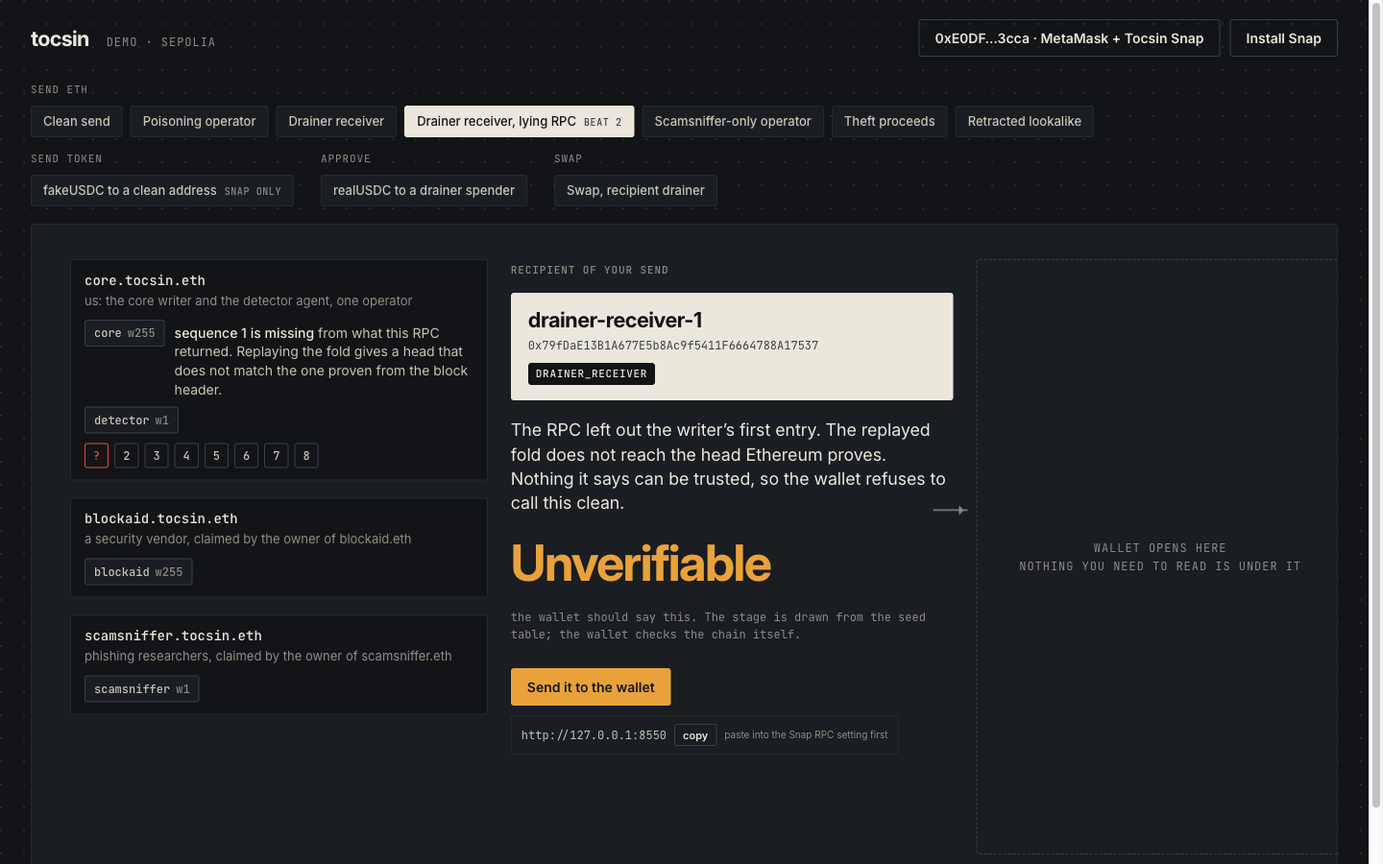
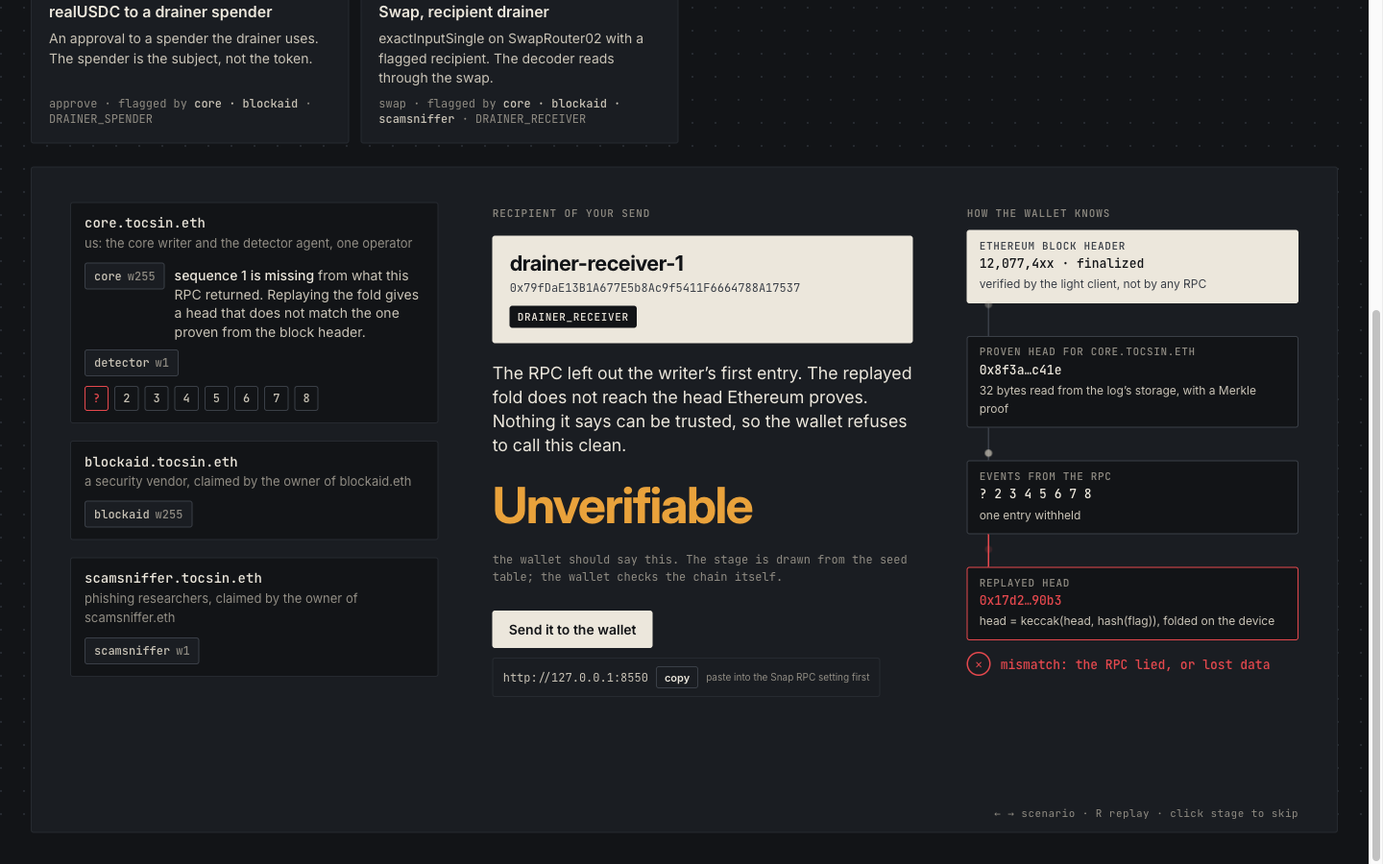
Demo page mock: scenario cards with explainers and category links, stage opens below; wallet mock removed, proof flow with travelling dots in its place, red only at the verdict; spec and stills updated

diff --git a/design/kit/demo-page.html b/design/kit/demo-page.html
@@ -15,15 +15,21 @@ body { min-height: 100vh; background:
 .top .wordmark { font-size: 22px; }
 .top .label { margin-left: 4px; }
 .top .acts { display: flex; gap: 10px; }
-.chip-row { display: flex; flex-wrap: wrap; gap: 14px 28px; padding: 6px 32px 18px; }
-.group { display: flex; flex-direction: column; gap: 8px; }
-.group .label { font-size: 11px; }
-.chips { display: flex; flex-wrap: wrap; gap: 8px; }
-.chip { font: 500 13px/1 var(--body); color: var(--paper-200); background: var(--ink-800); border: var(--hair); border-radius: var(--r); padding: 9px 12px; cursor: pointer; white-space: nowrap; transition: border-color 150ms, color 150ms; }
-.chip:hover { border-color: var(--ink-600); color: var(--paper-100); }
-.chip.on { color: var(--ink-900); background: var(--paper-100); border-color: var(--paper-100); }
-.chip .tag { font: 500 10px/1 var(--mono); letter-spacing: .06em; text-transform: uppercase; color: var(--ink-400); margin-left: 8px; }
-.chip.on .tag { color: var(--ink-600); }
+.tabs { display: flex; gap: 28px; padding: 10px 32px 0; }
+.tab { font: 500 12px/1 var(--mono); letter-spacing: .08em; text-transform: uppercase; color: var(--ink-400); background: none; border: 0; border-bottom: 1px solid var(--ink-600); padding: 0 0 8px; cursor: pointer; }
+.tab:hover { color: var(--paper-200); }
+.tab.on { color: var(--paper-100); border-bottom: 2px solid var(--paper-100); }
+.cards { display: grid; grid-template-columns: repeat(4, 1fr); gap: 12px; padding: 18px 32px 24px; }
+.card { text-align: left; background: var(--ink-800); border: var(--hair); border-radius: var(--r); padding: 16px 18px; cursor: pointer; display: flex; flex-direction: column; gap: 8px; min-height: 132px; transition: border-color 150ms, transform var(--enter) var(--ease-out); color: var(--paper-100); font-family: var(--body); }
+.card:hover { border-color: var(--ink-600); }
+.card.on { border-color: var(--paper-100); }
+.card .t { font-size: 16px; font-weight: 600; line-height: 1.25; display: flex; justify-content: space-between; gap: 10px; align-items: baseline; }
+.card .tag { font: 500 10px/1 var(--mono); letter-spacing: .06em; text-transform: uppercase; color: var(--ink-400); white-space: nowrap; }
+.card .d { font-size: 14px; line-height: 1.45; color: var(--paper-200); }
+.card .m { margin-top: auto; font: 400 12px/1.4 var(--mono); color: var(--ink-400); }
+.card .m b { color: var(--paper-200); font-weight: 500; }
+.stage.empty > * { display: none; }
+.stage.empty::after { content: 'pick a scenario above'; position: absolute; inset: 0; display: grid; place-items: center; font: 500 12px/1 var(--mono); letter-spacing: .08em; text-transform: uppercase; color: var(--ink-400); }
 
 .stage { position: relative; margin: 0 32px 32px; min-height: 620px; background: var(--ink-800); border: var(--hair); border-radius: var(--r);
   display: grid; grid-template-columns: 30% 1fr 27%; padding: 36px 40px; gap: 56px; overflow: hidden; }
@@ -80,22 +86,30 @@ body { min-height: 100vh; background:
 .copy { display: flex; gap: 8px; align-items: center; font: 400 12px/1 var(--mono); color: var(--paper-200); border: var(--hair); border-radius: var(--r); padding: 8px 10px; }
 .copy small { color: var(--ink-400); font-family: var(--body); }
 
-/* the right third: kept empty for the wallet */
-.land { position: relative; border: 1px dashed var(--ink-600); border-radius: var(--r); height: 100%; min-height: 520px; display: grid; place-items: center; opacity: 0; transition: opacity var(--state); }
-.land.on { opacity: 1; }
-.land .label { text-align: center; line-height: 1.6; }
-.land .arrow { position: absolute; left: -46px; top: 42%; width: 36px; height: 1.5px; background: var(--ink-400); }
-.land .arrow::after { content: ''; position: absolute; right: -1px; top: -4px; border: 5px solid transparent; border-left-color: var(--ink-400); }
-.land .fakewallet { position: absolute; inset: 12px; background: #24272a; border-radius: 10px; opacity: 0; transition: opacity var(--state); display: flex; flex-direction: column; padding: 14px; gap: 10px; color: #d6d9dc; font: 400 12px/1.4 system-ui, sans-serif; }
-.land .fakewallet.on { opacity: 1; }
-.fakewallet .bar { display: flex; justify-content: space-between; color: #9fa6ad; font-size: 11px; }
-.fakewallet .block { border-top: 4px solid #d73847; background: #2e2a2b; border-radius: 6px; padding: 12px; }
-.fakewallet .warnb { border-top: 4px solid #f0b90b; background: #2f2c25; border-radius: 6px; padding: 12px; }
-.fakewallet .cleanb { border-top: 4px solid #4a5056; background: #2b2e31; border-radius: 6px; padding: 12px; }
-.fakewallet h4 { margin: 0 0 4px; font-size: 14px; }
-.fakewallet .btns { margin-top: auto; display: flex; gap: 8px; }
-.fakewallet .btns span { flex: 1; text-align: center; padding: 10px; border-radius: 20px; border: 1px solid #4a5056; }
-.fakewallet .btns span.p { background: #4459ff; border-color: #4459ff; color: #fff; }
+/* the right third: the proof, drawn as a flow */
+.proof { display: flex; flex-direction: column; gap: 0; padding-top: 6px; }
+.proof .ctx { margin-bottom: 12px; }
+.node { border: var(--hair-strong); border-radius: var(--r); padding: 10px 12px; background: var(--ink-900); }
+.node .k { font: 500 11px/1 var(--mono); letter-spacing: .06em; text-transform: uppercase; color: var(--ink-400); }
+.node .v { font: 500 13px/1.4 var(--mono); color: var(--paper-100); margin-top: 4px; word-break: break-all; }
+.node .s { font-size: 12px; color: var(--paper-200); margin-top: 3px; }
+.node.hero { background: var(--paper-100); border-color: var(--paper-100); }
+.node.hero .k { color: var(--ink-600); } .node.hero .v { color: var(--ink-900); } .node.hero .s { color: var(--ink-600); }
+.node.bad { border-color: var(--alert); } .node.bad .v { color: var(--alert); }
+.link { position: relative; height: 34px; margin-left: 22px; width: 1.5px; background: var(--ink-600); }
+.link .dot { position: absolute; left: -3px; top: -4px; width: 7.5px; height: 7.5px; border-radius: 50%; background: var(--paper-200); opacity: 0; }
+.link.on .dot { animation: drop 1.4s linear infinite; }
+.link.bad { background: var(--alert); } .link.bad .dot { background: var(--alert); }
+.link.stop .dot { animation: drop-stop 1.4s var(--ease-out) infinite; }
+@keyframes drop { 0% { transform: translateY(0); opacity: 0; } 15% { opacity: 1; } 85% { opacity: 1; } 100% { transform: translateY(30px); opacity: 0; } }
+@keyframes drop-stop { 0% { transform: translateY(0); opacity: 0; } 20% { opacity: 1; } 60% { transform: translateY(16px); opacity: 1; } 100% { transform: translateY(16px); opacity: 0; } }
+.compare { display: flex; align-items: center; gap: 10px; margin-top: 12px; font: 500 13px/1.3 var(--mono); color: var(--paper-100); }
+.compare .mark { width: 22px; height: 22px; border-radius: 50%; border: 1.5px solid var(--paper-200); display: grid; place-items: center; font-size: 12px; }
+.compare.bad { color: var(--alert); } .compare.bad .mark { border-color: var(--alert); }
+/* dots on the wires */
+.stage .mote { fill: var(--paper-200); }
+.stage .mote.bad { fill: var(--alert); }
+.subject.bad { box-shadow: 0 0 0 2px var(--alert); }
 .hint { position: absolute; right: 40px; bottom: 14px; font: 400 11px/1 var(--mono); color: var(--ink-400); letter-spacing: .04em; }
 @media (prefers-reduced-motion: reduce) { .in, .says, .wire, .land { transition: none; } .ring.go { animation: none; } }
 </style>
@@ -105,13 +119,14 @@ body { min-height: 100vh; background:
   <div class="brand"><span class="wordmark">tocsin</span><span class="label">demo · sepolia</span></div>
   <div class="acts"><button class="btn" id="host">0xE0DF…3cca · MetaMask + Tocsin Snap</button><button class="btn">Install Snap</button></div>
 </header>
-<nav class="chip-row" id="chips" aria-label="scenarios"></nav>
-<main class="stage" id="stage" aria-live="polite">
+<nav class="tabs" id="tabs" aria-label="categories"></nav>
+<section class="cards" id="cards" aria-label="scenarios"></section>
+<main class="stage empty" id="stage" aria-live="polite">
   <svg class="wires" id="wires"></svg>
   <section class="col" id="lists"></section>
   <section class="col mid" id="mid"></section>
-  <section class="col"><div class="land" id="land"><span class="arrow"></span><div class="label">wallet opens here<br>nothing you need to read is under it</div><div class="fakewallet" id="fw"></div></div></section>
-  <span class="hint">← → scenario · R replay · click stage to skip · Enter send</span>
+  <section class="col proof" id="proof"></section>
+  <span class="hint">← → scenario · R replay · click stage to skip</span>
 </main>
 <script>
 // ---- data: in the real page this is utils/demo/scenarios.ts plus a LISTS constant, pinned to the tsv by a test
@@ -123,20 +138,20 @@ const LISTS = [
 ];
 const WARN_ONLY = new Set(['THEFT_PROCEEDS']);
 const S = [
-  { id: 'clean', group: 'Send ETH', title: 'Clean send', ctx: 'recipient', subject: { label: 'demo account', addr: '0xE0DFbd2B761929D02b30f2173C3386f0ec4B3cca' }, cat: null, flags: [] },
-  { id: 'op', group: 'Send ETH', title: 'Poisoning operator', ctx: 'recipient', subject: { label: 'poisoning-operator-1', addr: '0x5126633bCFdb9E4A2FE7AB445394AE0a217f9120' }, cat: 'POISONING_OPERATOR',
+  { id: 'clean', desc: "A normal transfer to an address nobody has flagged. The wallet lets it through.", group: 'Send ETH', title: 'Clean send', ctx: 'recipient', subject: { label: 'demo account', addr: '0xE0DFbd2B761929D02b30f2173C3386f0ec4B3cca' }, cat: null, flags: [] },
+  { id: 'op', desc: "Sends dust from a lookalike address so you copy it later. Two lists each have one writer on it.", group: 'Send ETH', title: 'Poisoning operator', ctx: 'recipient', subject: { label: 'poisoning-operator-1', addr: '0x5126633bCFdb9E4A2FE7AB445394AE0a217f9120' }, cat: 'POISONING_OPERATOR',
     flags: [ { writer: 'detector', ev: '0x3725c75c…5af9dce' }, { writer: 'lantern', ev: '0xa84cc88a…0becb16' } ] },
-  { id: 'drainer', group: 'Send ETH', title: 'Drainer receiver', ctx: 'recipient', subject: { label: 'drainer-receiver-1', addr: '0x79fDaE13B1A677E5b8Ac9f5411F6664788A17537' }, cat: 'DRAINER_RECEIVER',
+  { id: 'drainer', desc: "The address a drainer kit sweeps victims’ funds into. Three lists name it, two at full weight.", group: 'Send ETH', title: 'Drainer receiver', ctx: 'recipient', subject: { label: 'drainer-receiver-1', addr: '0x79fDaE13B1A677E5b8Ac9f5411F6664788A17537' }, cat: 'DRAINER_RECEIVER',
     flags: [ { writer: 'manual', ev: '0x0b1c…a91f' }, { writer: 'harbor', ev: '0x3725c75c…5af9dce' }, { writer: 'lantern', ev: '0xa84cc88a…0becb16' } ] },
-  { id: 'poison', group: 'Send ETH', title: 'Drainer receiver, lying RPC', tag: 'beat 2', ctx: 'recipient', poison: true, subject: { label: 'drainer-receiver-1', addr: '0x79fDaE13B1A677E5b8Ac9f5411F6664788A17537' }, cat: 'DRAINER_RECEIVER',
+  { id: 'poison', desc: "Same send, but the Snap reads through an RPC that hides a flag. Watch the fold not add up.", group: 'Send ETH', title: 'Drainer receiver, lying RPC', tag: 'beat 2', ctx: 'recipient', poison: true, subject: { label: 'drainer-receiver-1', addr: '0x79fDaE13B1A677E5b8Ac9f5411F6664788A17537' }, cat: 'DRAINER_RECEIVER',
     flags: [ { writer: 'manual', ev: '0x0b1c…a91f' }, { writer: 'harbor', ev: '0x3725c75c…5af9dce' }, { writer: 'lantern', ev: '0xa84cc88a…0becb16' } ] },
-  { id: 'lantern', group: 'Send ETH', title: 'Scamsniffer-only operator', ctx: 'recipient', subject: { label: 'sniffer-poisoning-operator-1', addr: '0xd59557f9a8f3574f58FDc8ea63E4f9B1F7486B22' }, cat: 'POISONING_OPERATOR',
+  { id: 'lantern', desc: "Flagged by one list at weight 1. Warns by default; blocks when the policy is one writer.", group: 'Send ETH', title: 'Scamsniffer-only operator', ctx: 'recipient', subject: { label: 'sniffer-poisoning-operator-1', addr: '0xd59557f9a8f3574f58FDc8ea63E4f9B1F7486B22' }, cat: 'POISONING_OPERATOR',
     flags: [ { writer: 'lantern', ev: '0xa84cc88a…0becb16' } ], after: 'Set the Snap policy to 1 writer and this blocks.' },
-  { id: 'theft', group: 'Send ETH', title: 'Theft proceeds', ctx: 'recipient', subject: { label: 'theft-proceeds-1', addr: '0x8e1a…c0de' }, cat: 'THEFT_PROCEEDS', flags: [ { writer: 'manual', ev: '0x0b1c…a91f' } ] },
-  { id: 'retracted', group: 'Send ETH', title: 'Retracted lookalike', ctx: 'recipient', subject: { label: 'paid-lookalike-retracted', addr: '0x44aa…9e2b' }, cat: 'PAID_LOOKALIKE', flags: [ { writer: 'manual', ev: '0x0b1c…a91f', tomb: true } ] },
-  { id: 'token', group: 'Send token', title: 'fakeUSDC to a clean address', tag: 'snap only', ctx: 'token', subject: { label: 'fakeUSDC, the contract itself', addr: '0x2Ba2B2F4bd18D04C3bA92DB9F73a49d19c87b4B8' }, cat: 'FAKE_TOKEN', flags: [ { writer: 'manual', ev: '0x0b1c…a91f' } ] },
-  { id: 'approve', group: 'Approve', title: 'realUSDC to a drainer spender', ctx: 'spender', subject: { label: 'drainer-spender-1', addr: '0x7d77cf49d8c1851781C3cEfCdD9Bd9871366782e' }, cat: 'DRAINER_SPENDER', flags: [ { writer: 'manual', ev: '0x0b1c…a91f' }, { writer: 'harbor', ev: '0x3725c75c…5af9dce' } ] },
-  { id: 'swap', group: 'Swap', title: 'Swap, recipient drainer', ctx: 'recipient', via: { label: 'SwapRouter02', addr: '0x3bFA4769FB09eefC5a80d6E87c3B9C650f7Ae48E' }, subject: { label: 'drainer-receiver-1', addr: '0x79fDaE13B1A677E5b8Ac9f5411F6664788A17537' }, cat: 'DRAINER_RECEIVER',
+  { id: 'theft', desc: "Where stolen funds went. Flagged at full weight, but the category warns and never blocks a send.", group: 'Send ETH', title: 'Theft proceeds', ctx: 'recipient', subject: { label: 'theft-proceeds-1', addr: '0x8e1a…c0de' }, cat: 'THEFT_PROCEEDS', flags: [ { writer: 'manual', ev: '0x0b1c…a91f' } ] },
+  { id: 'retracted', desc: "A lookalike the core writer flagged, then retracted with a tombstone. Both entries stay in the log.", group: 'Send ETH', title: 'Retracted lookalike', ctx: 'recipient', subject: { label: 'paid-lookalike-retracted', addr: '0x44aa…9e2b' }, cat: 'PAID_LOOKALIKE', flags: [ { writer: 'manual', ev: '0x0b1c…a91f', tomb: true } ] },
+  { id: 'token', desc: "The token contract itself is flagged, not the recipient. Only the Snap checks the token target today.", group: 'Send token', title: 'fakeUSDC to a clean address', tag: 'snap only', ctx: 'token', subject: { label: 'fakeUSDC, the contract itself', addr: '0x2Ba2B2F4bd18D04C3bA92DB9F73a49d19c87b4B8' }, cat: 'FAKE_TOKEN', flags: [ { writer: 'manual', ev: '0x0b1c…a91f' } ] },
+  { id: 'approve', desc: "An approval to a spender the drainer uses. The spender is the subject, not the token.", group: 'Approve', title: 'realUSDC to a drainer spender', ctx: 'spender', subject: { label: 'drainer-spender-1', addr: '0x7d77cf49d8c1851781C3cEfCdD9Bd9871366782e' }, cat: 'DRAINER_SPENDER', flags: [ { writer: 'manual', ev: '0x0b1c…a91f' }, { writer: 'harbor', ev: '0x3725c75c…5af9dce' } ] },
+  { id: 'swap', desc: "exactInputSingle on SwapRouter02 with a flagged recipient. The decoder reads through the swap.", group: 'Swap', title: 'Swap, recipient drainer', ctx: 'recipient', via: { label: 'SwapRouter02', addr: '0x3bFA4769FB09eefC5a80d6E87c3B9C650f7Ae48E' }, subject: { label: 'drainer-receiver-1', addr: '0x79fDaE13B1A677E5b8Ac9f5411F6664788A17537' }, cat: 'DRAINER_RECEIVER',
     flags: [ { writer: 'manual', ev: '0x0b1c…a91f' }, { writer: 'harbor', ev: '0x3725c75c…5af9dce' }, { writer: 'lantern', ev: '0xa84cc88a…0becb16' } ] },
 ];
 const CTX = { recipient: 'recipient of your send', spender: 'spender of your allowance', token: 'the token contract you are calling' };
@@ -173,26 +188,40 @@ const sched = (fn, t) => timers.push(setTimeout(fn, t));
 const stop = () => { timers.forEach(clearTimeout); timers = []; };
 function el(tag, cls, html) { const e = document.createElement(tag); if (cls) e.className = cls; if (html != null) e.innerHTML = html; return e; }
 
-function chips() {
-  const groups = [...new Set(S.map(s => s.group))];
-  for (const g of groups) {
-    const box = el('div', 'group'); box.append(el('span', 'label', g)); const row = el('div', 'chips');
-    S.forEach((s, i) => { if (s.group !== g) return; const c = el('button', 'chip', s.title + (s.tag ? `<span class="tag">${s.tag}</span>` : '')); c.dataset.i = i; c.onclick = () => play(i); row.append(c); });
-    box.append(row); $('chips').append(box);
-  }
+let tab = 'All';
+function whoFlags(sc) {
+  const names = [...new Set(sc.flags.filter(f => !f.tomb).map(f => LISTS.find(L => L.writers.some(w => w.id === f.writer)).name.split('.')[0]))];
+  if (sc.flags.length && !names.length) return 'flagged, then <b>retracted</b>';
+  return names.length ? `flagged by <b>${names.join(' · ')}</b>` : 'no flags';
+}
+function cards() {
+  $('tabs').innerHTML = ''; $('cards').innerHTML = '';
+  for (const g of ['All', ...new Set(S.map(s => s.group))]) { const t = el('button', 'tab' + (g === tab ? ' on' : ''), g); t.onclick = () => { tab = g; cards(); }; $('tabs').append(t); }
+  S.forEach((sc, i) => {
+    if (tab !== 'All' && sc.group !== tab) return;
+    const c = el('button', 'card' + (i === cur && !$('stage').classList.contains('empty') ? ' on' : ''),
+      `<div class="t"><span>${sc.title}</span>${sc.tag ? `<span class="tag">${sc.tag}</span>` : ''}</div><div class="d">${sc.desc}</div><div class="m">${sc.group.toLowerCase()} · ${whoFlags(sc)}${sc.cat ? ' · ' + sc.cat : ''}</div>`);
+    c.dataset.i = i; c.onclick = () => play(i); $('cards').append(c);
+  });
 }
 function wire(fromEl, toEl, cls) {
   const st = $('stage').getBoundingClientRect(), a = fromEl.getBoundingClientRect(), b = toEl.getBoundingClientRect(), card = fromEl.closest('.list').getBoundingClientRect();
   const x1 = card.right - st.left, y1 = a.top + a.height / 2 - st.top, x2 = b.left - st.left, y2 = b.top + b.height / 2 - st.top, c = Math.max(28, (x2 - x1) / 2);
   const p = document.createElementNS('http://www.w3.org/2000/svg', 'path');
   p.setAttribute('d', `M${x1},${y1} C${x1 + c},${y1} ${x2 - c},${y2} ${x2},${y2}`); p.setAttribute('class', 'wire ' + (cls || ''));
-  $('wires').append(p); requestAnimationFrame(() => requestAnimationFrame(() => p.classList.add('drawn'))); return p;
+  const id = 'w' + $('wires').childElementCount; p.id = id; $('wires').append(p);
+  const mote = document.createElementNS('http://www.w3.org/2000/svg', 'circle'); mote.setAttribute('r', '3.5'); mote.setAttribute('class', 'mote');
+  const am = document.createElementNS('http://www.w3.org/2000/svg', 'animateMotion'); am.setAttribute('dur', '1.6s'); am.setAttribute('repeatCount', 'indefinite'); am.setAttribute('begin', '0.45s');
+  const mp = document.createElementNS('http://www.w3.org/2000/svg', 'mpath'); mp.setAttribute('href', '#' + id); am.append(mp); mote.append(am); $('wires').append(mote);
+  requestAnimationFrame(() => requestAnimationFrame(() => p.classList.add('drawn'))); return p;
 }
 
 function play(i) {
   stop(); final = false; cur = i; const sc = S[i], ex = explain(sc);
-  document.querySelectorAll('.chip').forEach(c => c.classList.toggle('on', +c.dataset.i === i));
-  $('wires').innerHTML = ''; $('lists').innerHTML = ''; $('mid').innerHTML = ''; $('land').classList.remove('on'); $('fw').classList.remove('on');
+  $('stage').classList.remove('empty');
+  document.querySelectorAll('.card').forEach(c => c.classList.toggle('on', +c.dataset.i === i));
+  $('stage').scrollIntoView({ behavior: 'smooth', block: 'start' });
+  $('wires').innerHTML = ''; $('lists').innerHTML = ''; $('mid').innerHTML = ''; $('proof').innerHTML = '';
   let t = 0;
   // 1. the subject
   const ctx = el('div', 'ctx in', CTX[sc.ctx]); $('mid').append(ctx);
@@ -206,6 +235,21 @@ function play(i) {
     L.writers.forEach(w => { const row = el('div', 'writer'); const pill = el('span', 'pill', `${w.label}<span class="w">w${w.w}</span>`); const says = el('div', 'says'); row.append(pill, says); ws.append(row); nodes[w.id] = { pill, says }; });
     card.append(ws); $('lists').append(card); sched(() => card.classList.add('on'), t + 380 + k * 120);
   });
+  // 2b. the proof: the wallet proves the head from a block header, then folds the events it was given
+  const head = '0x8f3a…c41e', bad = '0x17d2…90b3';
+  const P = [
+    el('div', 'ctx in', 'how the wallet knows'),
+    el('div', 'node hero in', `<div class="k">Ethereum block header</div><div class="v">12,077,4xx · finalized</div><div class="s">verified by the light client, not by any RPC</div>`),
+    el('div', 'link', '<span class="dot"></span>'),
+    el('div', 'node in', `<div class="k">proven head for core.tocsin.eth</div><div class="v">${head}</div><div class="s">32 bytes read from the log’s storage, with a Merkle proof</div>`),
+    el('div', 'link', '<span class="dot"></span>'),
+    el('div', 'node in', `<div class="k">events from the RPC</div><div class="v">${sc.poison ? '? 2 3 4 5 6 7 8' : '1 2 3 4 5 6 7 8'}</div><div class="s">${sc.poison ? 'one entry withheld' : 'downloaded from anyone, trusted by nobody'}</div>`),
+    el('div', 'link', '<span class="dot"></span>'),
+    el('div', 'node in' + (sc.poison ? ' bad' : ''), `<div class="k">replayed head</div><div class="v">${sc.poison ? bad : head}</div><div class="s">head = keccak(head, hash(flag)), folded on the device</div>`),
+    el('div', 'compare in' + (sc.poison ? ' bad' : ''), `<span class="mark">${sc.poison ? '✕' : '='}</span><span>${sc.poison ? 'mismatch: the RPC lied, or lost data' : 'match: every flag is real, none is missing'}</span>`),
+  ];
+  P.forEach(n => $('proof').append(n));
+  P.forEach((n, k) => sched(() => { n.classList.add('on'); if (n.classList.contains('link') && sc.poison && k === 6) n.classList.add('stop', 'bad'); }, t + 300 + k * 110));
   t += 900;
   // 3a. the lying RPC: the fold breaks before any flag is read
   if (sc.poison) {
@@ -234,7 +278,7 @@ function play(i) {
   const rule = el('div', 'rule in', ex.rule); sched(() => { $('mid').append(rule); requestAnimationFrame(() => rule.classList.add('on')); }, t); t += 650;
   // 5. the verdict, one ripple
   const word = { clean: 'Clean', warn: 'Warn', block: 'Blocked', unverifiable: 'Unverifiable' }[ex.verdict];
-  const v = el('div', `verdict in ${ex.verdict}`, `${word}<span class="ring"></span>`); sched(() => { $('mid').append(v); requestAnimationFrame(() => { v.classList.add('on'); if (ex.verdict !== 'clean') v.querySelector('.ring').classList.add('go'); }); }, t); t += 500;
+  const v = el('div', `verdict in ${ex.verdict}`, `${word}<span class="ring"></span>`); sched(() => { $('mid').append(v); requestAnimationFrame(() => { v.classList.add('on'); if (ex.verdict !== 'clean') v.querySelector('.ring').classList.add('go'); if (ex.verdict === 'block') { sub.classList.add('bad'); document.querySelectorAll('.mote').forEach(m => m.classList.add('bad')); } }); }, t); t += 500;
   // 6. handoff
   sched(() => finish(sc, ex), t);
 }
@@ -249,27 +293,18 @@ function finish(sc, ex) {
     if (sc.tag === 'snap only') acts.append(el('span', 'copy', `<small>Snap only until Kohaku lands token checks</small>`));
     mid.append(foot, acts); requestAnimationFrame(() => { foot.classList.add('on'); acts.classList.add('on'); });
   }
-  $('land').classList.add('on');
 }
-function sendIt() {
-  const ex = explain(S[cur]), fw = $('fw');
-  const body = { block: `<div class="block"><h4>Blocked by Tocsin</h4>${S[cur].subject.label} is flagged as ${S[cur].cat} by ${ex.perList.filter(p => p.live.length).map(p => p.L.name).join(', ')}. The chain proves each flag is the writer’s own entry.</div>`,
-    warn: `<div class="warnb"><h4>Tocsin warns</h4>${S[cur].subject.label} is flagged as ${S[cur].cat} by one writer at weight 1.</div>`,
-    clean: `<div class="cleanb"><h4>Tocsin</h4>No list you follow flags this address. Head verified at block 12,077,4xx.</div>`,
-    unverifiable: `<div class="warnb"><h4>Unverifiable</h4>Chain mismatch at sequence 1. The RPC’s data does not match the head Ethereum proves. Never clean.</div>` }[ex.verdict];
-  fw.innerHTML = `<div class="bar"><span>MetaMask</span><span>Sepolia</span></div><div style="font-size:13px">Send 0.00001 ETH to <span style="font-family:var(--mono)">${S[cur].subject.addr.slice(0, 10)}…</span></div>${body}<div class="btns"><span>Reject</span><span class="p">Confirm</span></div>`;
-  fw.classList.add('on');
-}
-function skip() { if (final) return; stop(); document.querySelectorAll('#stage .in, #stage .says').forEach(e => e.classList.add('on')); document.querySelectorAll('.wire').forEach(w => w.classList.add('drawn')); const sc = S[cur]; finish(sc, explain(sc)); }
+function sendIt() { const b = document.querySelector('.actions .btn'); b.textContent = 'sent: the wallet is answering'; b.disabled = true; }
+function skip() { if (final) return; stop(); document.querySelectorAll('#stage .in, #stage .says').forEach(e => e.classList.add('on')); document.querySelectorAll('.wire').forEach(w => w.classList.add('drawn')); document.querySelectorAll('.link').forEach(l => l.classList.add('on')); const sc = S[cur], ex = explain(sc); if (ex.verdict === 'block') { document.querySelector('#mid .subject:last-of-type')?.classList.add('bad'); document.querySelectorAll('.mote').forEach(m => m.classList.add('bad')); } finish(sc, ex); }
 $('stage').addEventListener('click', e => { if (e.target.closest('button, a')) return; skip(); });
 document.addEventListener('keydown', e => {
   if (e.key === 'ArrowRight') play(Math.min(S.length - 1, cur + 1));
   if (e.key === 'ArrowLeft') play(Math.max(0, cur - 1));
   if (e.key.toLowerCase() === 'r') play(cur);
-  if (e.key === 'Enter') { if (!final) skip(); else sendIt(); }
+  if (e.key === 'Enter') { if (!final) skip(); }
   if (e.key.toLowerCase() === 'p') document.body.classList.toggle('present');
 });
-chips(); play(2);
+cards();
 </script>
 </body>
 </html>

diff --git a/docs/plan/demo-page/explainer-spec.md b/docs/plan/demo-page/explainer-spec.md
@@ -2,7 +2,7 @@
 
 Status: ready-for-agent. Written 6 Nov 2026 on main, revised the same evening after an adversarial pass. Builds on `docs/plan/demo-page/spec.md` (feat/demo), which stays the source for the scenario table, the swap decoder, the pool and the seeding. This spec changes what the page looks like and adds one job: before the wallet speaks, the page shows why it is about to say what it says.
 
-Mock: `design/kit/demo-page.html`, served from the repo root (`python3 -m http.server 8732`, then `/design/kit/demo-page.html`). Stills in `design/screens/demo-page-final.png`, `demo-page-warn.png`, `demo-page-poison.png`. The mock is the layout and the motion; its data is hand-typed and the real page takes it from the constants.
+Mock: `design/kit/demo-page.html`, served from the repo root (`python3 -m http.server 8732`, then `/design/kit/demo-page.html`). Stills in `design/screens/demo-page-cards.png` (the grid), `demo-page-final.png` (a block), `demo-page-warn.png`, `demo-page-poison.png`. The mock is the layout and the motion; its data is hand-typed and the real page takes it from the constants.
 
 ## Problem
 
@@ -10,9 +10,9 @@ The board on feat/demo works but it is a table of buttons with DaisyUI badges. O
 
 ## Solution
 
-One stage. No tabs, no side rail, no prediction card. A strip of scenario chips across the top, grouped by what the transaction does. Below it the explainer fills the width: the lists the wallet follows on the left, each with its writers; the subject in the middle; the right third empty on purpose, because that is where the MetaMask popup lands. When a chip is pressed the stage plays, under five seconds: the subject lands, the lists rise, every writer that flagged it draws a line to the subject and says what it flagged, a counter collapses writers that share an operator, the rule sentence explains the outcome, the verdict word lands, one ripple, and the Send button appears inside the stage. The presenter clicks Send, the wallet opens over the empty third and says the same thing.
+A grid of scenario cards, then the stage below it. Each card is a small explainer on its own: a title, one sentence about what the address is, and a mono line saying which of our lists flag it and the category. Category links above the grid (All, Send ETH, Send token, Approve, Swap) filter the cards; they are plain underlined labels, not tab chrome, and All is the default because ten cards fit in three rows. Clicking a card selects it and the page scrolls so the stage fills the viewport. The stage plays under five seconds: the subject lands, the lists rise on the left, every writer that flagged it draws a wire to the subject with a dot travelling along it and says what it flagged, the proof flow on the right shows how the wallet knows (header, proven head, events, replayed head, compare), a counter collapses writers that share an operator, the rule sentence explains the outcome, the verdict word lands with one ripple, and the Send button appears. The presenter clicks Send and the wallet, which is not mocked anywhere on the page, opens and says the same thing.
 
-Why not tabs or a rail. The audience never needs the menu, so it should not take width from the story. A prediction card that prints "Blocked" before the explainer has run spoils the beat. Three columns at 1440 leave the stage too narrow for projector-size type. One stage, chips on top, was the right call.
+Why cards and not a chip strip or a rail. A chip is a label; a card has room to say what the thing is before the stage has to. The audience reads the card while the presenter talks, then watches the stage prove it. Why no wallet mock: the real popup is the proof and anything that imitates it on the page would weaken that. The stage ends on the verdict and the Send button, nothing else.
 
 The page still checks nothing. Every fact on the stage comes from the scenario constants, which the existing test pins to the demo address table. The stage is the presenter's prediction, drawn. The wallet is the proof.
 
@@ -38,9 +38,11 @@ Data dependency, the one thing not on chain yet: the blockaid and scamsniffer ke
 4. For each writer that flagged the subject, a hairline draws from the list's edge to the subject, 400 ms. A weight-255 writer's line is heavier. Next to the writer pill a line of text appears: "blockaid.tocsin.eth flagged it: DRAINER_RECEIVER, weight 255. evidence 0x3725…9dce", the evidence a link to the transaction. One writer every 480 ms.
 5. The counter under the subject: "independent writers: 3 · lists that flag it: 3 of 3". When the core writer and the detector both flagged, the counter says they share one operator and count once.
 6. The rule sentence, one of a fixed set (below).
-7. The verdict word: Clean in paper, Warn in paper with an amber underline, Blocked in alert red, Unverifiable in amber. One ripple runs out from the word. Red appears nowhere else on the page.
-8. The handoff: the caption "the wallet should say this. The stage is drawn from the seed table; the wallet checks the chain itself", the Send button, and the empty right third gets a dashed outline labelled "wallet opens here, nothing you need to read is under it" with a thin arrow pointing into it.
-9. Presenter clicks Send. The wallet opens top right, over the outline, and agrees.
+7. The verdict word: Clean in paper, Warn in paper with an amber underline, Blocked in alert red, Unverifiable in amber. One ripple runs out from the word. On Blocked, and only then, the subject card takes a red outline and the dots on the wires turn red. Red appears nowhere else on the page.
+8. The handoff: the caption "the wallet should say this. The stage is drawn from the seed table; the wallet checks the chain itself", and the Send button.
+9. Presenter clicks Send. The real wallet opens and agrees. Nothing on the page imitates it.
+
+The proof flow on the right runs alongside steps 3 to 6, top to bottom, with a dot dropping along each link: "Ethereum block header, finalized, verified by the light client" (paper hero node) → "proven head for core.tocsin.eth, 32 bytes read from the log's storage with a Merkle proof" → "events from the RPC, downloaded from anyone, trusted by nobody" → "replayed head, head = keccak(head, hash(flag)), folded on the device" → compare: "= match: every flag is real, none is missing". In the lying-RPC scene the events node shows `? 2 3 4 5 6 7 8`, the last link's dot stops short and turns red, the replayed head differs and turns red, and the compare reads "✕ mismatch: the RPC lied, or lost data". The flow is the same four nodes every time, so by the third scenario the audience reads it without help.
 
 Whole explainer under five seconds. Click anywhere on the stage to jump to the final frame. `R` replays. Left and right arrows move through the chips in order, which is the run of show. `Enter` skips to the end, then sends.
 
@@ -81,11 +83,11 @@ There are no policy preview chips, for the same reason. The scamsniffer-only exp
 Desktop, 1440 and 1920 wide. Below 1200 the chips wrap further and the stage stacks the lists above the subject; it only has to not break.
 
 - Header: wordmark, `demo · sepolia` label, the connect button showing account and host ("MetaMask + Tocsin Snap" or "Kohaku"), Install Snap. Debug Contracts and Block Explorer go into an overflow menu.
-- Chip strip: groups as mono labels (Send ETH, Send token, Approve, Swap), chips wrap, the selected chip is paper on ink. A chip carries a small mono tag when it needs one: `beat 2`, `snap only`.
-- Stage: `ink-800` panel, hairline border, three columns 30 / 1fr / 27 with a 56px gap so the wires have room. Lists left, subject and verdict middle, landing zone right.
-- Landing zone: dashed `ink-600` outline, label centred, visible only on the final frame. Keep it at least 420 wide by 520 tall so the MetaMask popup sits over it and over nothing else.
+- Category links: mono uppercase, underlined, All first. They filter the grid and nothing else.
+- Cards: four columns, `ink-800` with the hairline, title at 16/600, one sentence at 14 in `paper-200`, a mono meta line "send eth · flagged by core · blockaid · scamsniffer · DRAINER_RECEIVER" at the bottom. A small mono tag in the title row when needed: `beat 2`, `snap only`. The selected card has a paper border. Cards never show the verdict; the stage reveals it.
+- Stage: `ink-800` panel, hairline border, three columns 30 / 1fr / 27 with a 56px gap so the wires have room. Lists left, subject and verdict middle, the proof flow right. Empty before the first click, with "pick a scenario above" in mono. On click the page scrolls the stage to the top of the viewport.
 - Send button is the only amber element on the page, and only when the verdict is Warn or Blocked. Clean takes paper. Unverifiable takes paper too, because the verdict word already took the amber.
-- Rows Kohaku cannot catch carry the `snap only` tag; when the connected host is Kohaku their Send is disabled with the reason under it.
+- Cards Kohaku cannot catch carry the `snap only` tag; when the connected host is Kohaku their Send is disabled with the reason under it.
 - Presenter mode on `P`: hides the header, scales stage type 1.25.
 
 ## Visual rules (from `design/DIRECTION.md`)
@@ -94,7 +96,8 @@ Desktop, 1440 and 1920 wide. Below 1200 the chips wrap further and the stage sta
 - Entrances 240 ms ease-out with a 12 px rise. Lists stagger 120 ms. Lines draw with `stroke-dashoffset` over 400 ms. Writers 480 ms apart. Rule 650 ms before the verdict. Cross-fade 700 ms.
 - Nothing bounces, nothing scales from zero. The only loop on the page is the background dot field, which does not strike ambiently here; it strikes once, at the verdict.
 - `prefers-reduced-motion`: final frame with every caption visible, no ripple.
-- Red is `alert` and appears on the verdict word and the missing sequence only. Clean is paper, never green.
+- Wires are SVG paths; each gets a 3.5px dot travelling it on `animateMotion`, 1.6 s loop. Proof links get a dot dropping along them. Dots are `paper-200` until a Blocked verdict turns them `alert`.
+- Red is `alert` and appears only at the verdict: the word Blocked, the subject outline, the dots, and in the lying-RPC scene the missing sequence, the replayed head and the compare line. Clean is paper, never green.
 
 ## Data
 
@@ -121,10 +124,10 @@ Unchanged path: `buildTx` then wagmi `sendTransaction`. The stage's Send button 
 
 ## Tickets
 
-- 06 Kit port and the stage skeleton. Tokens and fonts into the Next.js package, DaisyUI out of the body, header, chip strip from the scenario table, stage with the three columns, the lists rendered from `LISTS`, the subject from the scenario, the landing zone, the Send button wired to `buildTx`. No motion yet: the final frame renders at once. Acceptance: a 1440 screenshot matches `design/screens/demo-page-final.png` in structure; connect, Install Snap and Send work on Sepolia.
-- 07 The explainer. `explain.ts` with its test. The timed sequence from "What the audience sees" for clean, warn, block by weight and block by count, with the wires, the writer captions, the counter, the ripple, skip on click, replay, arrow keys, reduced motion. Acceptance: every Send ETH row plays under five seconds and ends on the same frame ticket 06 renders.
+- 06 Kit port and the stage skeleton. Tokens and fonts into the Next.js package, DaisyUI out of the body, header, category links and the card grid from the scenario table (each row gains a `desc`), stage with the three columns, the lists rendered from `LISTS`, the subject from the scenario, the proof flow's four nodes, the Send button wired to `buildTx`. No motion yet: the final frame renders at once. Acceptance: 1440 screenshots match `design/screens/demo-page-cards.png` and `demo-page-final.png` in structure; connect, Install Snap and Send work on Sepolia.
+- 07 The explainer. `explain.ts` with its test. The timed sequence from "What the audience sees" for clean, warn, block by weight and block by count, with the wires and their dots, the writer captions, the proof flow and its dropping dots, the counter, the ripple, the red at Blocked, skip on click, replay, arrow keys, reduced motion. Acceptance: every Send ETH row plays under five seconds and ends on the same frame ticket 06 renders.
 - 08 The variants. Warn-only, retracted, token, spender, swap recipient, and the lying-RPC scene with the sequence strip and the copy box. Acceptance: each has a chip and plays; the explain test covers all of them.
-- 09 Handoff polish. Host-aware Send (Kohaku disables snap-only rows), presenter mode, the strike into the background field at the verdict, the arrow into the landing zone. Acceptance: the runbook's three beats run from the keyboard with the mouse used only for Send and the wallet.
+- 09 Handoff polish. Host-aware Send (Kohaku disables snap-only cards), presenter mode, the strike into the background field at the verdict, scroll and focus handling so a card click always lands the stage at the top of the viewport. Acceptance: the runbook's three beats run from the keyboard with the mouse used only for Send and the wallet.
 - 10 Seed the two claimed names. Append flags from the blockaid and scamsniffer keys for the subjects the scenario table expects of them (drainer-receiver-1 at least from both, the scamsniffer-only operator, the shared poisoning operator), publish `tocsin.list` on `blockaid.tocsin.eth` and `scamsniffer.tocsin.eth` signed by their own keys through `setup-all.mjs`'s `publishList`, and point the reader's followed lists at the three `.tocsin.eth` names. Acceptance: the tsv test passes against the new leaves; the Snap blocks drainer-receiver-1 with three lists named.
 
 ## Out of scope
@@ -137,6 +140,6 @@ Unchanged path: `buildTx` then wagmi `sendTransaction`. The stage's Send button 
 
 ## Notes for whoever builds it
 
-- Lift the pill, connector and stagger patterns from `design/kit/scenes.js` and `scenes.css`; the mock in `demo-page.html` already has a working `wire()` that anchors at the list card's right edge and curves to the subject's centre.
+- Lift the pill, connector and stagger patterns from `design/kit/scenes.js` and `scenes.css`; the mock in `demo-page.html` already has a working `wire()` that anchors at the list card's right edge, curves to the subject's centre, and attaches the travelling dot.
 - `dapp/packages/reader/src/evaluate.ts` is the reference for the rule sentences. Keep `explain.ts` in step with it by hand; they are not shared code on purpose, because the page must never be the thing that decides.
-- Keep the top-right 420 by 520 region free of anything the audience needs to read after Send is clicked.
+- The real wallet popup will cover part of the proof flow after Send. That is fine: the flow has already played, and the verdict and rule sentence sit in the middle column where the popup does not reach.
